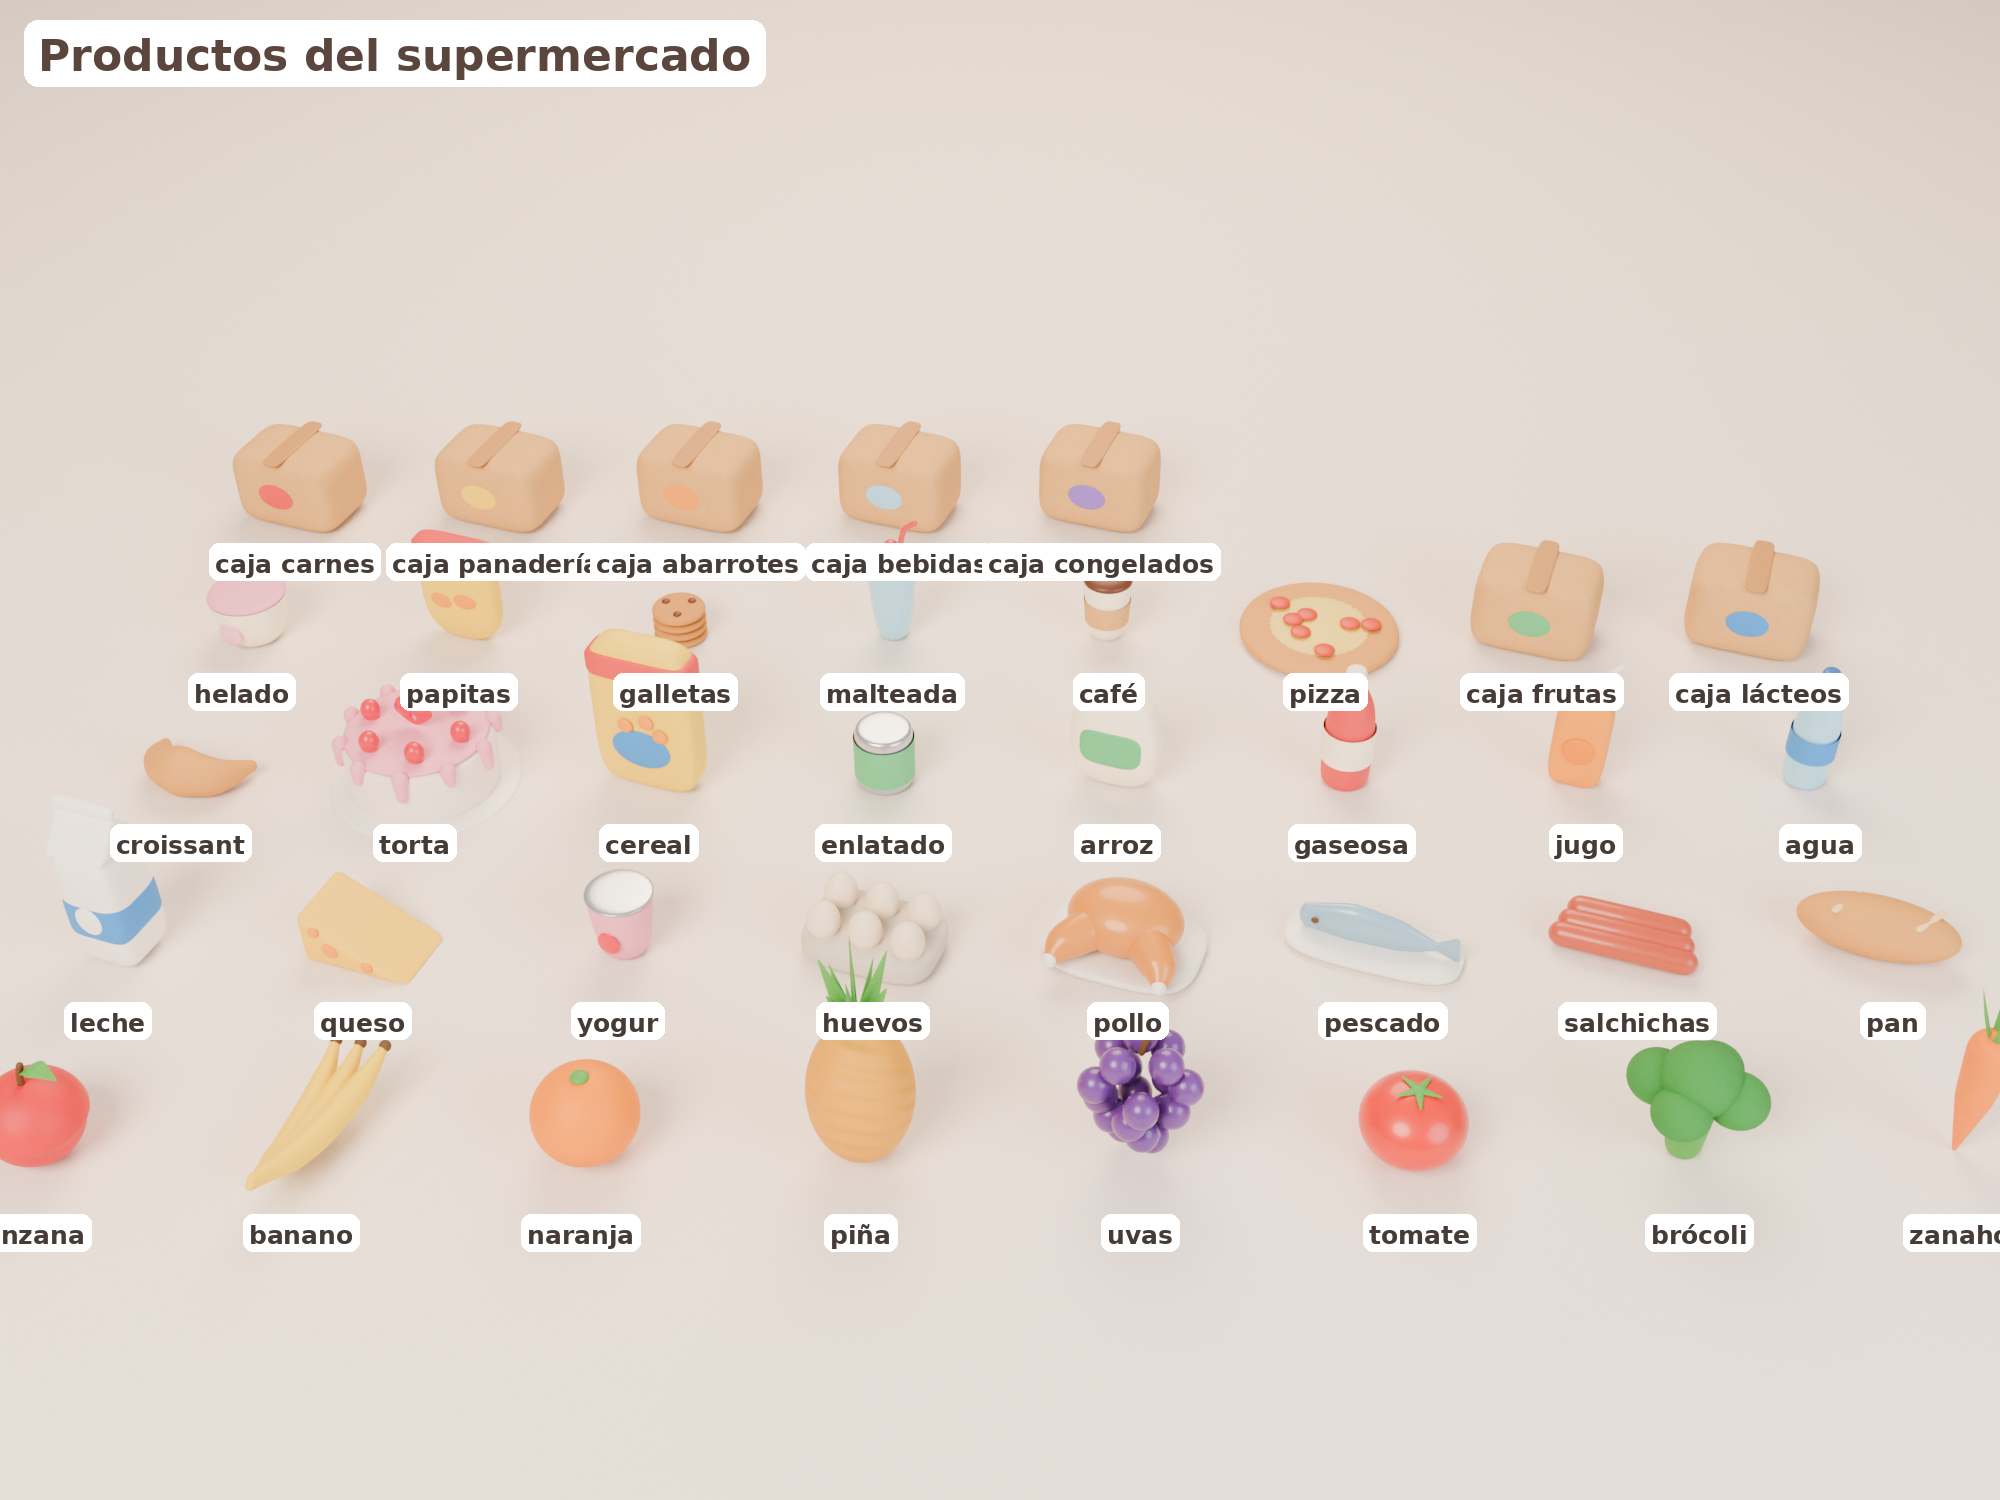
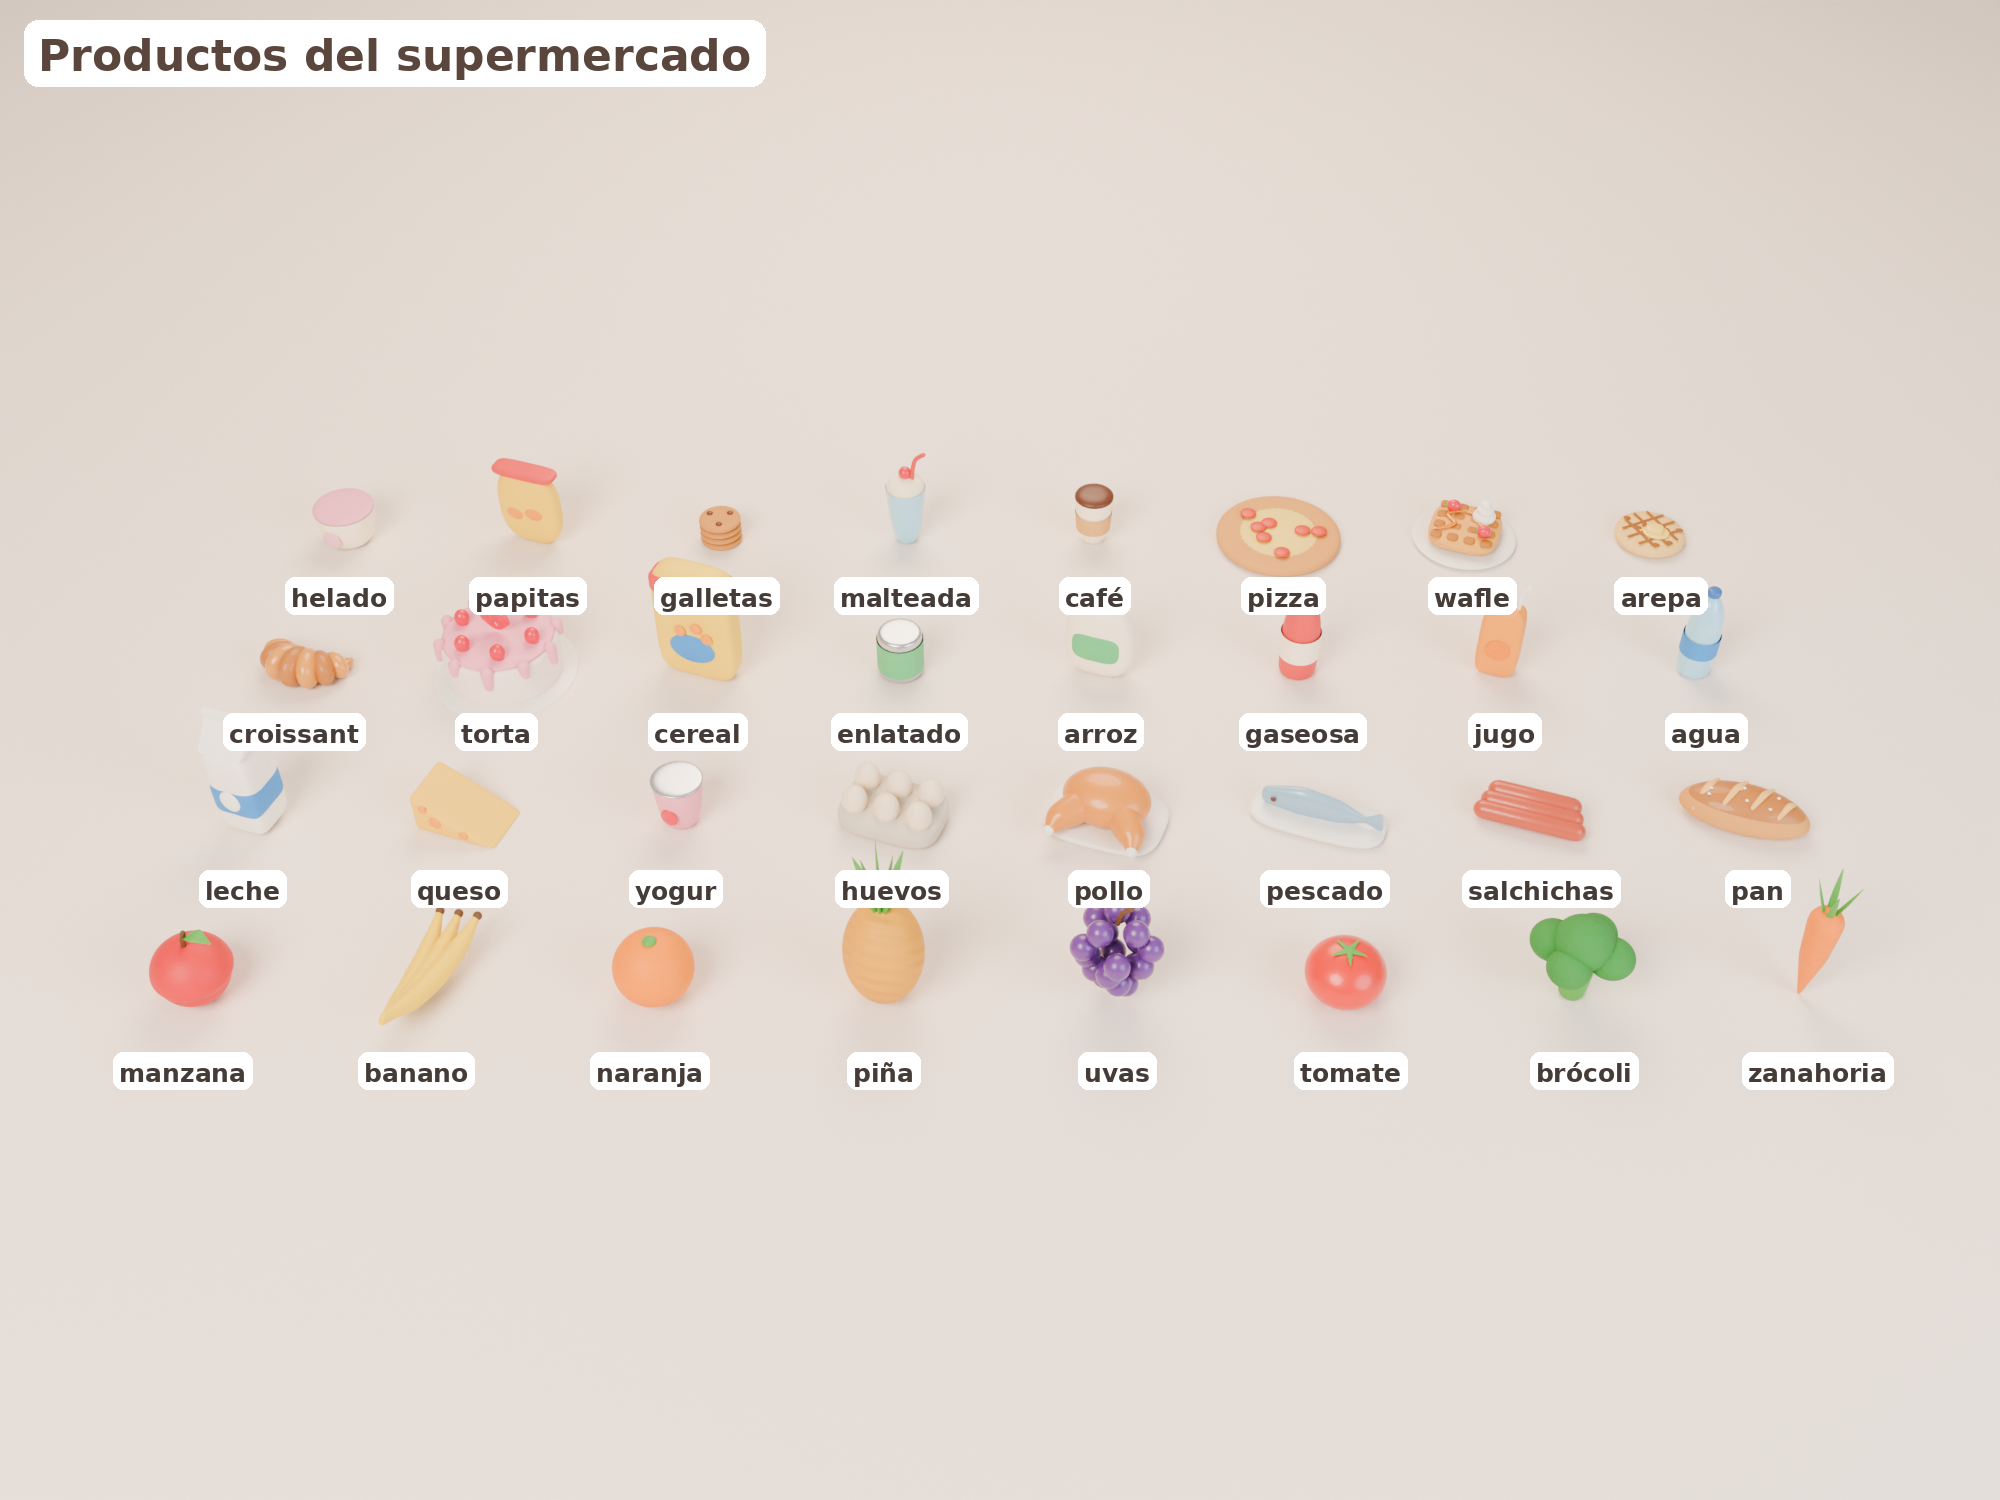
Hoja de productos con más espacio entre filas y productos más grandes
Claude-Session: https://claude.ai/code/session_011dAX7NrmbGrF2px86DxVyx

diff --git a/personajes/blender/catalogo.py b/personajes/blender/catalogo.py
@@ -3,6 +3,7 @@
 Uso: python3 catalogo.py <carpeta_salida> <hoja1,hoja2,...> [muestras] [escala%]
 Hojas: productos, vitrinas (una imagen por tipo de vitrina con sus 3 niveles)
 """
+import math
 import os
 import sys
 import time
@@ -99,20 +100,20 @@ def hoja_productos(scene):
     coll = clay.collection('Hoja productos')
     names = [n for n, _ in prod.CATALOGO]
     cols = 8
-    sp = 0.95
+    sp, sy = 1.05, 1.25
     labels = []
     for i, n in enumerate(names):
         r, cidx = divmod(i, cols)
         x = (cidx - (cols - 1) / 2) * sp
-        y = r * sp * 1.05
-        s = 1.7 if not n.startswith('caja') else 1.2
-        prod.instance(n, (x, y, 0), -0.35, s, coll)
-        labels.append((n.replace('caja ', '').replace('pina', 'piña').replace('brocoli', 'brócoli').replace('lacteos', 'lácteos')
-                        .replace('panaderia', 'panadería').replace('cafe', 'café'), (x, y - 0.32, -0.02)))
+        y = r * sy
+        prod.instance(n, (x, y, 0), -0.35, 2.1, coll)
+        labels.append((n.replace('pina', 'piña').replace('brocoli', 'brócoli').replace('cafe', 'café'), (x, y - 0.36, -0.02)))
     rows = (len(names) + cols - 1) // cols
-    cy = (rows - 1) * sp * 1.05 / 2
-    cam = escena.camera('CAM productos', (0.0, cy - 7.4, 7.2), (0.0, cy - 0.15, 0.1), 40)
-    render(scene, cam, '10-productos', 2000, 1500, labels, 'Productos del supermercado')
+    cy = (rows - 1) * sy / 2
+    el = math.radians(38)
+    dist = 10.5
+    cam = escena.camera('CAM productos', (0.0, cy - dist * math.cos(el), 0.2 + dist * math.sin(el)), (0.0, cy + 0.1, 0.2), 40)
+    render(scene, cam, '10-productos', 2000, 1250, labels, 'Productos del supermercado')
     coll.hide_render = True
     coll.hide_viewport = True
     hoja_cajas(scene)
